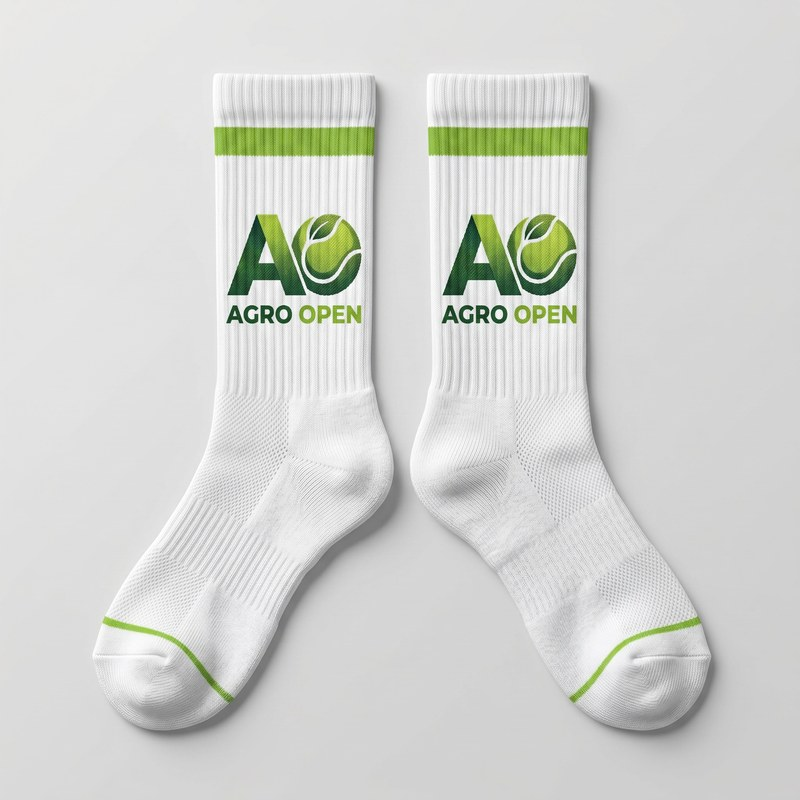
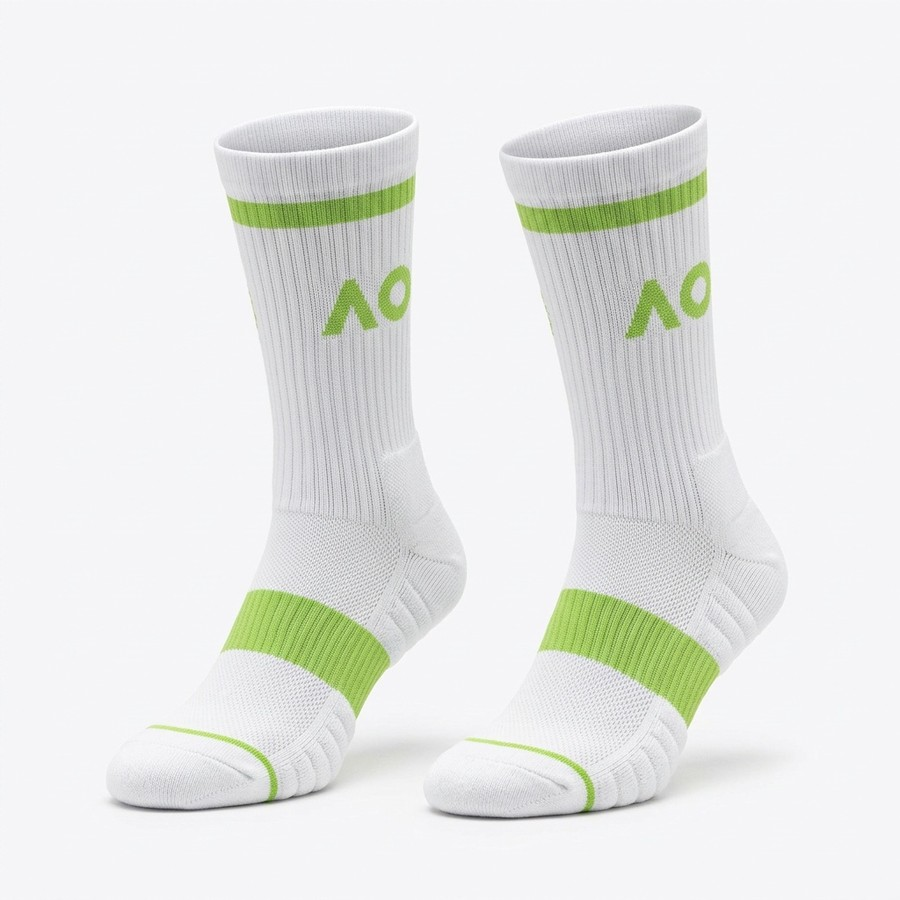
feat: 6 novos produtos na loja + imagens oficiais do ZIP (AOT-011 a AOT-016)
Novos: Bandana, Grip/Overgrip, Mochila, Raqueteira, Toalha Grande, Viseira
Substituídas: imagens AOT-001 a AOT-010 pelas versões de alta qualidade do ZIP
seedLoja: backfill automático insere produtos novos se não existirem no banco

diff --git a/app/server.js b/app/server.js
@@ -1731,6 +1731,18 @@ const KIT_SEED = [
     desc:'Silicone hipoalergênico, relevo gravado. "AGRO OPEN • 4ª EDIÇÃO • TANGARÁ-MT • 2026". Credencial oficial do atleta.' },
   { cod:'AOT-010', nome:'Munhequeira Oficial (Par)', cat:'Acessórios', emoji:'🤝', preco:40, estoque:200,
     desc:'Algodão felpudo terry cotton, elastano interno. 7,5cm largura. Monograma AO verde limão bordado. Vendido em par.' },
+  { cod:'AOT-011', nome:'Bandana Headband Agro Open', cat:'Acessórios', emoji:'🎀', preco:30, estoque:150,
+    desc:'Elástico esportivo com interior felpudo absorvente. Verde Escuro com monograma AO bordado. Tamanho único.' },
+  { cod:'AOT-012', nome:'Grip / Overgrip Agro Open', cat:'Equipamentos', emoji:'🎾', preco:20, estoque:200,
+    desc:'Overgrip premium com textura antiderrapante. Embalagem exclusiva 4ª Edição Agro Open de Tênis 2026. Kit com 2 unidades.' },
+  { cod:'AOT-013', nome:'Mochila Esportiva Agro Open', cat:'Equipamentos', emoji:'🎒', preco:180, estoque:100,
+    desc:'Mochila esportiva Verde Escuro. Logo Agro Open bordado na frente. Compartimentos múltiplos + bolso lateral para garrafa. 2026 • Tangará-MT.' },
+  { cod:'AOT-014', nome:'Raqueteira Agro Open', cat:'Equipamentos', emoji:'🎾', preco:220, estoque:80,
+    desc:'Raqueteira semi-rígida Verde Escuro com vivos verde limão. Logo Agro Open estampado. Alça de ombro + handles. Capacidade 2 raquetes.' },
+  { cod:'AOT-015', nome:'Toalha Grande Agro Open', cat:'Equipamentos', emoji:'🛁', preco:95, estoque:120,
+    desc:'Toalha grande 100% algodão felpudo premium. Verde Escuro com viés verde limão. Logo bordado central. Ideal para vestiário e quadra.' },
+  { cod:'AOT-016', nome:'Viseira Agro Open', cat:'Bonés', emoji:'🧢', preco:60, estoque:150,
+    desc:'Viseira esportiva Verde Escuro. Monograma AO bordado 3D na frente. Alça ajustável com detalhe verde limão. Proteção solar na quadra.' },
 ];
 function seedLoja(){
   const d=db(); if(!d.loja) d.loja=[];
@@ -1738,9 +1750,11 @@ function seedLoja(){
     KIT_SEED.forEach(k=>{ d.loja.push({ id:nextId(), cod:k.cod, nome:k.nome, cat:k.cat, emoji:k.emoji, preco:k.preco, estoque:k.estoque, desc:k.desc, ativo:true, criadoEm:new Date().toISOString() }); });
     save();
   } else {
-    // Backfill: produtos existentes recebem desc/emoji/imagem do KIT_SEED e IMAGEM_LOJA pelo código
+    // Backfill: adiciona produtos novos do seed e atualiza campos de existentes
     let alterado=false;
     const porCod=Object.fromEntries(KIT_SEED.map(k=>[k.cod,k]));
+    const codExistentes=new Set(d.loja.map(p=>p.cod));
+    KIT_SEED.forEach(k=>{ if(!codExistentes.has(k.cod)){ d.loja.push({ id:nextId(), cod:k.cod, nome:k.nome, cat:k.cat, emoji:k.emoji, preco:k.preco, estoque:k.estoque, desc:k.desc, ativo:true, criadoEm:new Date().toISOString() }); alterado=true; } });
     d.loja.forEach(p=>{
       const k=porCod[p.cod];
       if(k){
@@ -1760,6 +1774,12 @@ function seedLoja(){
         'AOT-008':'/produtos/aot-008-toalhinha.jpg',
         'AOT-009':'/produtos/aot-009-pulseira.jpg',
         'AOT-010':'/produtos/aot-010-munhequeira.jpg',
+        'AOT-011':'/produtos/aot-011-bandana.jpg',
+        'AOT-012':'/produtos/aot-012-grip-overgrip.jpg',
+        'AOT-013':'/produtos/aot-013-mochila.jpg',
+        'AOT-014':'/produtos/aot-014-raqueteira.jpg',
+        'AOT-015':'/produtos/aot-015-toalha-grande.jpg',
+        'AOT-016':'/produtos/aot-016-viseira.jpg',
       };
       if(p.cod && !p.imagem && imgMap[p.cod]){ p.imagem=imgMap[p.cod]; alterado=true; }
     });
@@ -1780,6 +1800,12 @@ const IMAGEM_LOJA = {
   'AOT-008':'/produtos/aot-008-toalhinha.jpg',
   'AOT-009':'/produtos/aot-009-pulseira.jpg',
   'AOT-010':'/produtos/aot-010-munhequeira.jpg',
+  'AOT-011':'/produtos/aot-011-bandana.jpg',
+  'AOT-012':'/produtos/aot-012-grip-overgrip.jpg',
+  'AOT-013':'/produtos/aot-013-mochila.jpg',
+  'AOT-014':'/produtos/aot-014-raqueteira.jpg',
+  'AOT-015':'/produtos/aot-015-toalha-grande.jpg',
+  'AOT-016':'/produtos/aot-016-viseira.jpg',
 };
 
 app.get('/api/loja', (req,res)=> {
